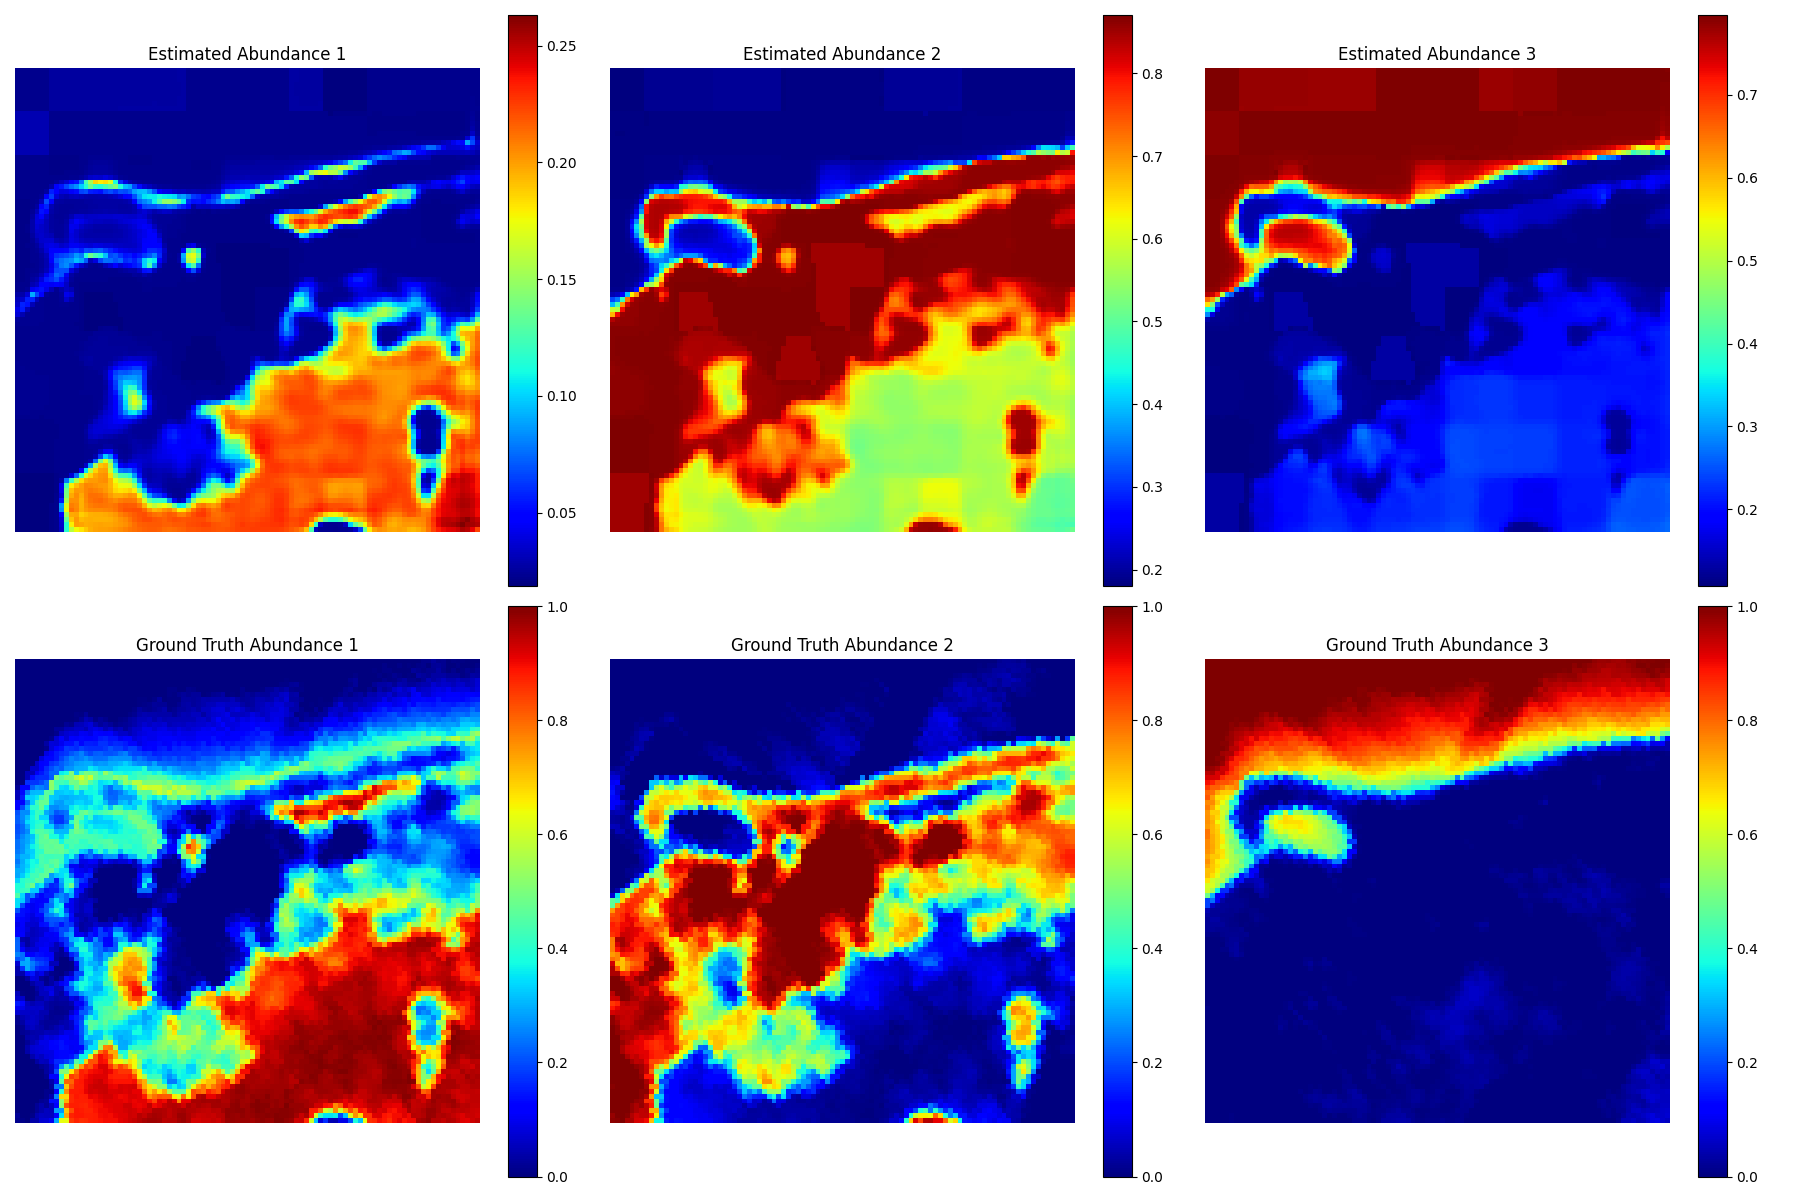
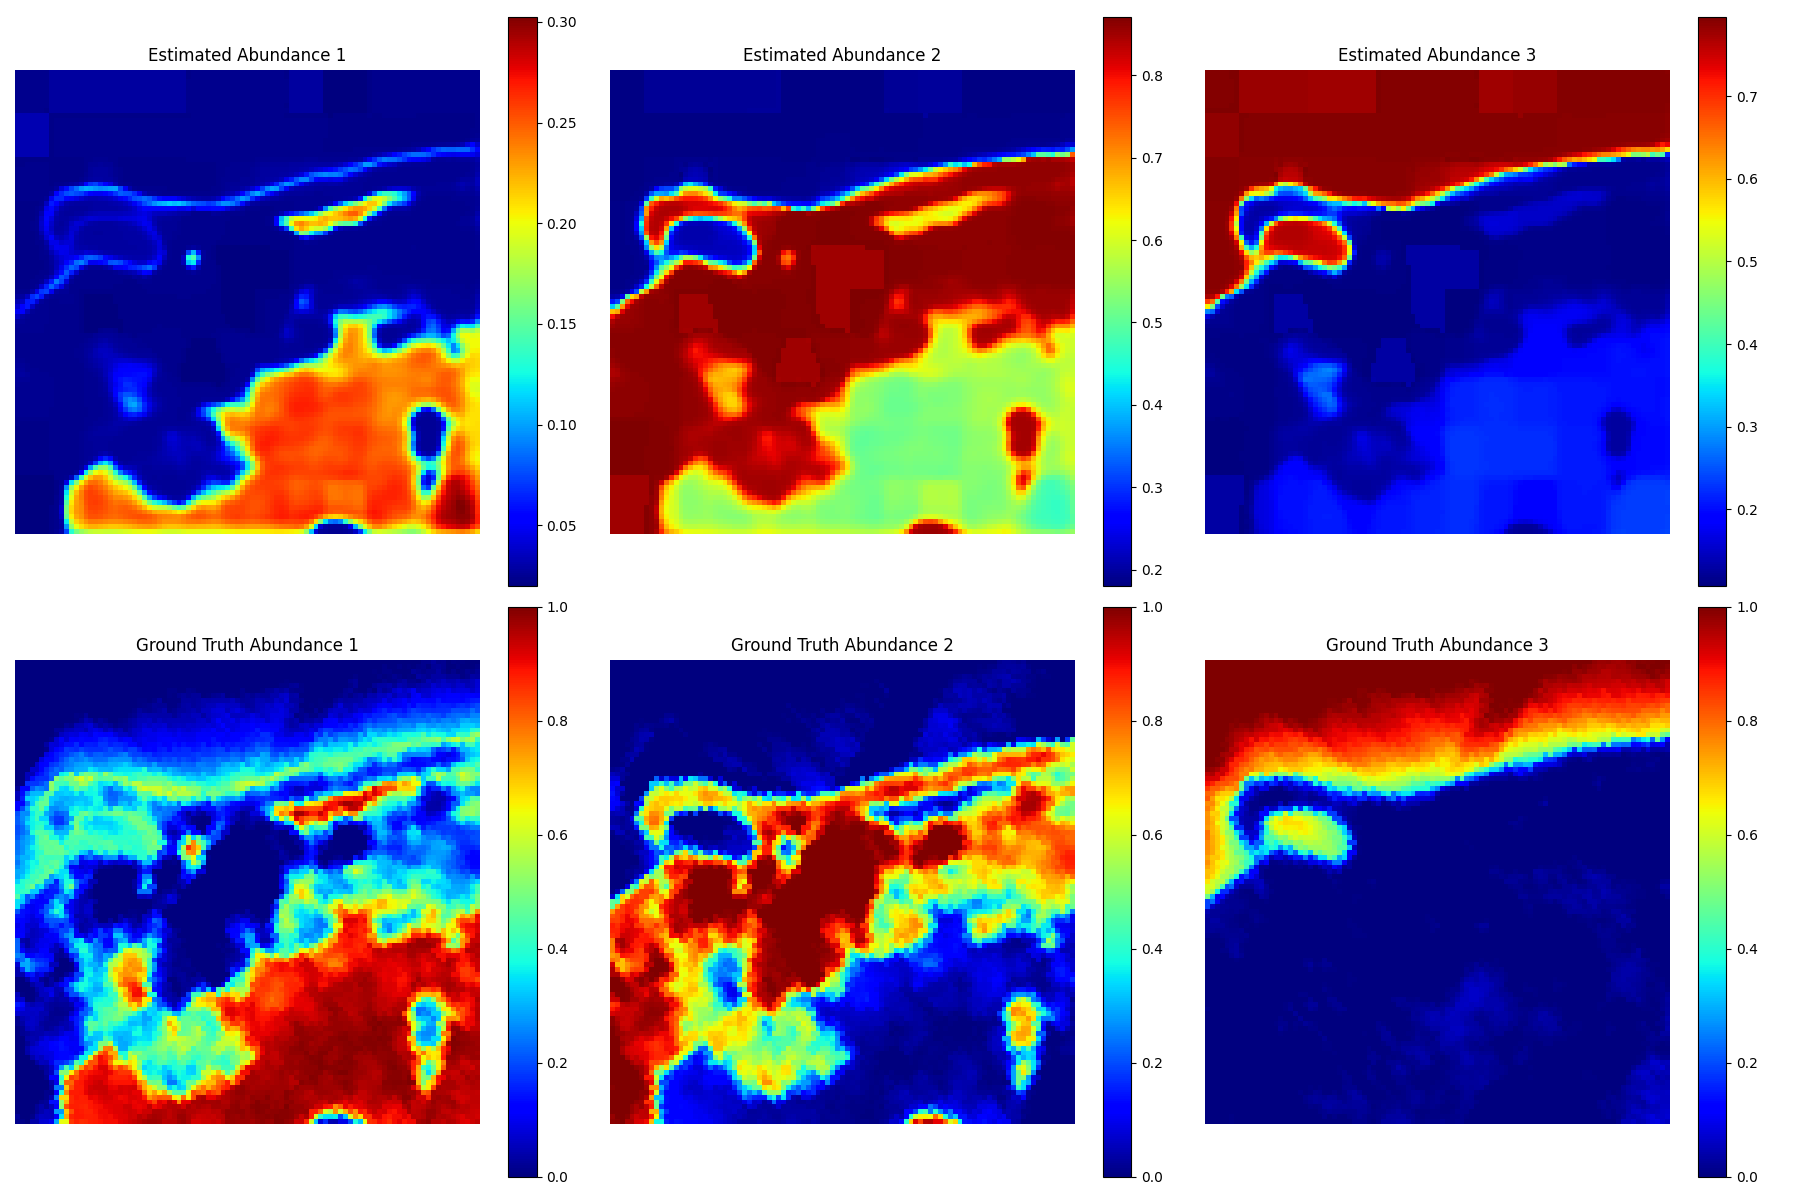
Add variance based method

diff --git a/hsu.py b/hsu.py
@@ -233,6 +233,7 @@ class CrossAttentionFusion(nn.Module):
         power = 1.5
         S = torch.pow(S + 1e-8, 1.0 / power)  # Inverse power = sharper
         S = S / (S.sum(dim=1, keepdim=True) + 1e-8)  # Renormalize
+        S = torch.clamp(S, min=1e-6, max=1.0)
         return S
 
 # ==========================================
@@ -487,12 +488,14 @@ class MSGACD_Unmixer(nn.Module):
         global_abund_pixel = torch.pow(global_abund_pixel + 1e-8, 1.0 / power)
         global_abund_pixel = global_abund_pixel / \
             (global_abund_pixel.sum(dim=1, keepdim=True) + 1e-8)
+        global_abund_pixel = torch.clamp(global_abund_pixel, min=1e-6, max=1.0)
 
         local_abund = self.cnn_encoder(x)  # [B, P, H, W]
         local_abund = F.softmax(local_abund / temperature, dim=1)
         local_abund = torch.pow(local_abund + 1e-8, 1.0 / power)
         local_abund = local_abund / \
             (local_abund.sum(dim=1, keepdim=True) + 1e-8)
+        local_abund = torch.clamp(local_abund, min=1e-6, max=1.0)
 
         fused_abund = self.fusion(global_abund_pixel, local_abund)
 
@@ -660,6 +663,37 @@ def match_endmembers_to_ground_truth(M_est, M_true):
         return permutation
 
 
+def compute_diagnostic_masks(Y, A_true, pct_threshold=15.0, sigmoid_slope=20):
+    """
+    Y: [1, C, H, W] input HSI tensor
+    A_true: [P, H, W] ground truth abundances (one-hot-ish)
+    Returns: D_masks [P, C]
+    """
+    Y_np = Y.squeeze(0).permute(1, 2, 0).detach().cpu().numpy()  # [H,W,C]
+    H, W, C = Y_np.shape
+    P = A_true.shape[0]
+
+    pixels = Y_np.reshape(-1, C)  # [N,C]
+    labels = np.argmax(A_true.reshape(P, -1), axis=0)  # [N]
+
+    D_masks = np.zeros((P, C))
+
+    for c in range(P):
+        idx = (labels == c)
+        if idx.sum() < 5:
+            D_masks[c] = 0.5
+            continue
+
+        class_pixels = pixels[idx]
+        var = np.var(class_pixels, axis=0)
+
+        tau = np.percentile(var, pct_threshold)
+
+        D_masks[c] = 1 / (1 + np.exp(sigmoid_slope * (var - tau)))
+
+    return torch.from_numpy(D_masks).float()
+
+
 def train_unmixer(data_path=None, endmember_path=None):
     device = torch.device('cuda' if torch.cuda.is_available() else 'cpu')
     print(f"Using device: {device}")
@@ -749,6 +783,10 @@ def train_unmixer(data_path=None, endmember_path=None):
     print("Starting training...")
     model.train()
 
+    # Enable gradients on img_tensor for alignment loss computation
+    if A_true_reshaped is not None:
+        img_tensor.requires_grad_(True)
+
     for epoch in range(epochs):
         optimizer.zero_grad()
 
@@ -764,6 +802,46 @@ def train_unmixer(data_path=None, endmember_path=None):
         recon, abundances, endmembers, global_abund, adj = model(img_tensor)
 
         A = abundances
+        # CRITICAL: Clamp abundances before any log operations to prevent NaN
+        A = torch.clamp(A, min=1e-6, max=1.0)
+
+        # Debug: Check for NaN early
+        if epoch % 10 == 0:
+            print(
+                f"A stats: min={torch.min(A).item():.6f}, max={torch.max(A).item():.6f}")
+            if torch.isnan(A).any():
+                print("⚠ NaN detected in abundances!")
+
+        # Diagnostic Mask Alignment Loss (DISABLED for debugging)
+        if A_true_reshaped is not None and False:  # Temporarily disabled
+            A_true_tensor = torch.from_numpy(A_true_reshaped).permute(
+                2, 0, 1).float().to(device)  # [P, H, W]
+            A_true_np = A_true_tensor.detach().cpu().numpy()
+            D_masks = compute_diagnostic_masks(img_tensor, A_true_np)
+            D_masks = D_masks.to(device)  # [P, C]
+
+            # Get dominant endmember for each pixel
+            dominant_endmember = torch.argmax(A, dim=1)  # [B, H, W]
+            B, H, W = dominant_endmember.shape
+            C = D_masks.shape[1]
+
+            # Index D_masks with dominant endmember: [B, H, W] -> [B, H, W, C]
+            D_for_pixels = D_masks[dominant_endmember]  # [B, H, W, C]
+
+            # Compute gradient sensitivity S_hat
+            S_hat = torch.abs(torch.autograd.grad(
+                outputs=A.sum(), inputs=img_tensor,
+                retain_graph=True, create_graph=True
+            )[0])  # [B, C, H, W]
+            S_hat = S_hat.permute(0, 2, 3, 1)  # [B, H, W, C]
+            # More stable normalization: handle zero sums
+            S_hat_sum = S_hat.sum(dim=3, keepdim=True)
+            S_hat = torch.where(S_hat_sum > 1e-8, S_hat / S_hat_sum,
+                                torch.ones_like(S_hat) / S_hat.shape[3])
+
+            l_align = torch.mean((S_hat - D_for_pixels) ** 2)
+        else:
+            l_align = torch.tensor(0.0, device=device)
 
         h_in, w_in = img_tensor.shape[2], img_tensor.shape[3]
         h_recon, w_recon = recon.shape[2], recon.shape[3]
@@ -879,15 +957,15 @@ def train_unmixer(data_path=None, endmember_path=None):
             w_ortho = 0.05 + 0.03 * progress
             w_endmember_sad = (
                 0.3 + 0.2 * progress) if M_true is not None else 0.0
-            w_abundance_balance = 2.0 + 2.0 * progress
-            w_abundance_max_constraint = 3.0 + 3.0 * progress
-            w_abundance_min = 0.5 + 0.5 * progress
-            w_abundance_range = 0.2 + 0.2 * progress
-            w_entropy = 0.2 + 0.2 * progress
-            w_max_abund = 0.3 + 0.3 * progress
-            w_purity = 0.1 + 0.1 * progress
-            w_uniform_penalty = 0.2 + 0.2 * progress
-            w_endmember_collapse = 0.05 + 0.05 * progress
+            w_abundance_balance = 0.1 + 0.4 * progress  # Reduced from 2.0+2.0
+            w_abundance_max_constraint = 0.1 + 0.4 * progress  # Reduced from 3.0+3.0
+            w_abundance_min = 0.1 + 0.1 * progress  # Reduced from 0.5+0.5
+            w_abundance_range = 0.05 + 0.05 * progress  # Reduced from 0.2+0.2
+            w_entropy = 0.02 + 0.08 * progress  # Reduced from 0.2+0.2
+            w_max_abund = 0.05 + 0.15 * progress  # Reduced from 0.3+0.3
+            w_purity = 0.02 + 0.03 * progress  # Reduced from 0.1+0.1
+            w_uniform_penalty = 0.05 + 0.15 * progress  # Reduced from 0.2+0.2
+            w_endmember_collapse = 0.01 + 0.04 * progress  # Reduced from 0.05+0.05
             l_dirichlet = torch.tensor(0.0, device=device)
             l_tv_spatial = torch.tensor(0.0, device=device)
             l_graph = torch.tensor(0.0, device=device)
@@ -905,15 +983,15 @@ def train_unmixer(data_path=None, endmember_path=None):
             w_ortho = 0.08 + 0.04 * progress
             w_endmember_sad = (
                 0.5 + 0.3 * progress) if M_true is not None else 0.0
-            w_abundance_balance = 4.0 + 4.0 * progress
-            w_abundance_max_constraint = 6.0 + 6.0 * progress
-            w_abundance_min = 1.0 + 1.5 * progress
-            w_abundance_range = 0.4 + 0.4 * progress
-            w_entropy = 0.4 + 0.4 * progress
-            w_max_abund = 0.6 + 0.6 * progress
-            w_purity = 0.2 + 0.2 * progress
-            w_uniform_penalty = 0.4 + 0.4 * progress
-            w_endmember_collapse = 0.1 + 0.05 * progress
+            w_abundance_balance = 0.5 + 0.5 * progress  # Reduced from 4.0+4.0
+            w_abundance_max_constraint = 0.5 + 0.5 * progress  # Reduced from 6.0+6.0
+            w_abundance_min = 0.2 + 0.3 * progress  # Reduced from 1.0+1.5
+            w_abundance_range = 0.1 + 0.1 * progress  # Reduced from 0.4+0.4
+            w_entropy = 0.1 + 0.1 * progress  # Reduced from 0.4+0.4
+            w_max_abund = 0.2 + 0.2 * progress  # Reduced from 0.6+0.6
+            w_purity = 0.05 + 0.05 * progress  # Reduced from 0.2+0.2
+            w_uniform_penalty = 0.2 + 0.2 * progress  # Reduced from 0.4+0.4
+            w_endmember_collapse = 0.05 + 0.05 * progress  # Reduced from 0.1+0.05
             l_tv_spatial = reweighted_tv_loss(
                 A, img_crop, alpha=1.0) if progress > 0.5 else torch.tensor(0.0, device=device)
             l_graph = torch.tensor(0.0, device=device)
@@ -935,16 +1013,25 @@ def train_unmixer(data_path=None, endmember_path=None):
             w_ortho = 0.12 + 0.05 * phase3_progress * warmup_progress
             w_endmember_sad = (
                 0.8 + 0.15 * phase3_progress * warmup_progress) if M_true is not None else 0.0
-            # Start from Phase 2 end values and ramp very slowly
-            w_abundance_balance = 8.0 + 2.0 * phase3_progress * warmup_progress
-            w_abundance_max_constraint = 12.0 + 3.0 * phase3_progress * warmup_progress
-            w_abundance_min = 2.5 + 1.0 * phase3_progress * warmup_progress
-            w_abundance_range = 0.8 + 0.4 * phase3_progress * warmup_progress
-            w_entropy = 0.8 + 0.4 * phase3_progress * warmup_progress
-            w_max_abund = 1.2 + 0.4 * phase3_progress * warmup_progress
-            w_purity = 0.4 + 0.2 * phase3_progress * warmup_progress
-            w_uniform_penalty = 0.8 + 0.4 * phase3_progress * warmup_progress
-            w_endmember_collapse = 0.15 + 0.03 * phase3_progress * warmup_progress
+            # Start from Phase 2 end values and ramp very slowly (REDUCED)
+            w_abundance_balance = 1.0 + 0.5 * phase3_progress * \
+                warmup_progress  # Reduced from 8.0+2.0
+            w_abundance_max_constraint = 1.0 + 0.5 * phase3_progress * \
+                warmup_progress  # Reduced from 12.0+3.0
+            w_abundance_min = 0.5 + 0.2 * phase3_progress * \
+                warmup_progress  # Reduced from 2.5+1.0
+            w_abundance_range = 0.2 + 0.1 * phase3_progress * \
+                warmup_progress  # Reduced from 0.8+0.4
+            w_entropy = 0.2 + 0.1 * phase3_progress * \
+                warmup_progress  # Reduced from 0.8+0.4
+            w_max_abund = 0.4 + 0.2 * phase3_progress * \
+                warmup_progress  # Reduced from 1.2+0.4
+            w_purity = 0.1 + 0.05 * phase3_progress * \
+                warmup_progress  # Reduced from 0.4+0.2
+            w_uniform_penalty = 0.2 + 0.1 * phase3_progress * \
+                warmup_progress  # Reduced from 0.8+0.4
+            w_endmember_collapse = 0.1 + 0.05 * phase3_progress * \
+                warmup_progress  # Reduced from 0.15+0.03
             l_tv_spatial = reweighted_tv_loss(A, img_crop, alpha=1.0)
             # Delay graph loss until after warmup
             if epoch >= 170:
@@ -960,7 +1047,7 @@ def train_unmixer(data_path=None, endmember_path=None):
             else:
                 l_graph = torch.tensor(0.0, device=device)
         else:
-            # Phase 4: Full strength (stable, matching Phase 3 end)
+            # Phase 4: Full strength (REDUCED for stability)
             w_sad = 2.0
             w_mse = 1.0
             w_sparse = 0.1
@@ -971,15 +1058,15 @@ def train_unmixer(data_path=None, endmember_path=None):
             w_tv = 0.13
             w_ortho = 0.17
             w_endmember_sad = 0.95 if M_true is not None else 0.0
-            w_abundance_balance = 10.0
-            w_abundance_max_constraint = 15.0
-            w_abundance_min = 3.5
-            w_abundance_range = 1.2
-            w_entropy = 1.2
-            w_max_abund = 1.6
-            w_purity = 0.6
-            w_uniform_penalty = 1.2
-            w_endmember_collapse = 0.18
+            w_abundance_balance = 1.5  # Reduced from 10.0
+            w_abundance_max_constraint = 1.5  # Reduced from 15.0
+            w_abundance_min = 0.7  # Reduced from 3.5
+            w_abundance_range = 0.3  # Reduced from 1.2
+            w_entropy = 0.3  # Reduced from 1.2
+            w_max_abund = 0.6  # Reduced from 1.6
+            w_purity = 0.15  # Reduced from 0.6
+            w_uniform_penalty = 0.3  # Reduced from 1.2
+            w_endmember_collapse = 0.15  # Reduced from 0.18
             l_tv_spatial = reweighted_tv_loss(A, img_crop, alpha=1.0)
             B, K, P = global_abund.shape
             adj_float = adj.float()
@@ -995,6 +1082,7 @@ def train_unmixer(data_path=None, endmember_path=None):
         recon_loss = w_sad * l_sad + w_mse * l_mse
 
         # Compute all constraint/regularization losses
+        w_align = 0.3  # adjust if needed
         constraint_loss = (
             w_sparse * l_sparse +
             w_cluster * l_cluster +
@@ -1012,7 +1100,8 @@ def train_unmixer(data_path=None, endmember_path=None):
             w_max_abund * l_max_abund +
             w_purity * l_purity +
             w_uniform_penalty * l_uniform_penalty +
-            w_endmember_collapse * l_endmember_collapse
+            w_endmember_collapse * l_endmember_collapse +
+            w_align * l_align
         )
 
         # Adaptive scaling: if constraints dominate, scale them down
@@ -1036,7 +1125,7 @@ def train_unmixer(data_path=None, endmember_path=None):
 
         total_loss.backward()
         torch.nn.utils.clip_grad_norm_(
-            model.parameters(), max_norm=0.5)  # Tighter gradient clipping
+            model.parameters(), max_norm=0.3)  # Tighter gradient clipping
         optimizer.step()
         # Use smoothed loss for scheduler to prevent sudden jumps
         scheduler.step(ema_total_loss)
